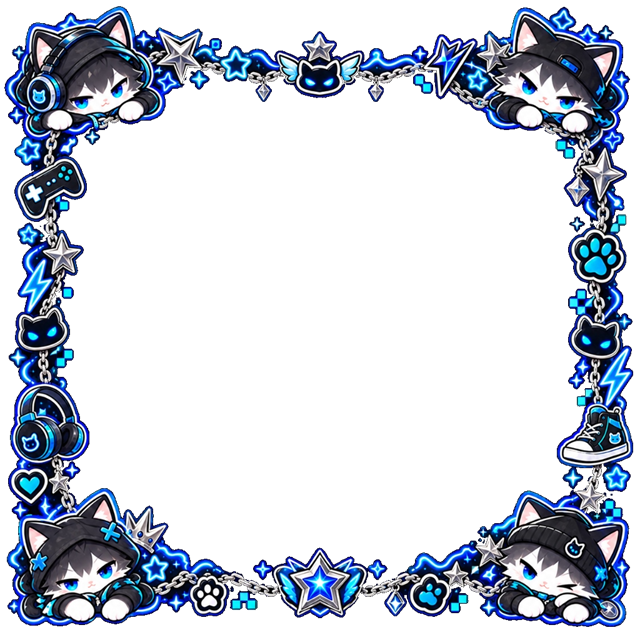
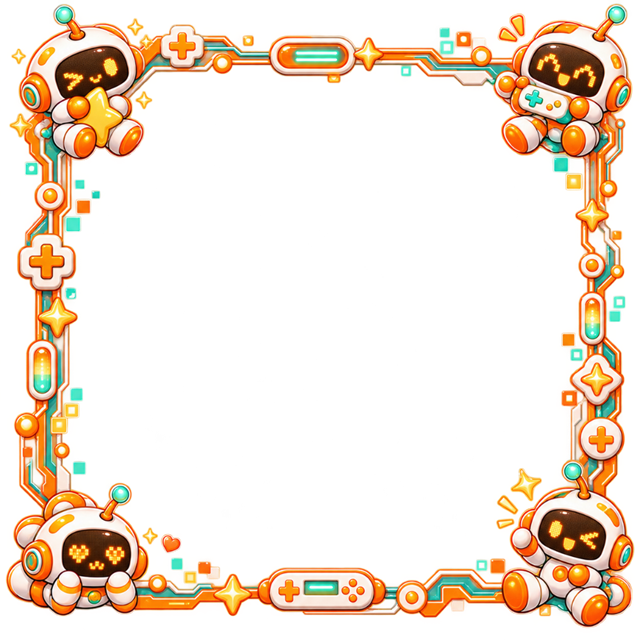
Add Sunday gamer robot frame (640x640) and update Locket_Unlocked.js daily rotation

diff --git a/js/Locket_Unlocked.js b/js/Locket_Unlocked.js
@@ -282,7 +282,7 @@ if (true) {
     // Thứ 5: Em bé gấu nơ
     // Thứ 6: Phi hành gia hoàng gia vàng xanh
     // Thứ 7: Mèo cyber neon xanh
-    // Chủ Nhật: Tạm dùng Mèo cyber (chờ khung mới)
+    // Chủ Nhật: Robot phi hành gia cam gamer
     // ============================================================
     var dailyFrames = {
         1: { name: "mon", uid: "frame_mon_galaxy_cat", url: "https://i.ibb.co/84j69JnV/frame-mon-640.png" },
@@ -291,7 +291,7 @@ if (true) {
         4: { name: "thu", uid: "frame_thu_baby_bear", url: "https://i.ibb.co/DDnjrxYB/frame-thu-640.png" },
         5: { name: "fri", uid: "frame_fri_astro_boy", url: "https://i.ibb.co/VYmyDN1g/frame-fri-640.png" },
         6: { name: "sat", uid: "frame_sat_cyber_cat", url: "https://i.ibb.co/wFdwxy9w/frame-sat-640.png" },
-        0: { name: "sun", uid: "frame_sun_cyber_cat", url: "https://i.ibb.co/wFdwxy9w/frame-sat-640.png" }
+        0: { name: "sun", uid: "frame_sun_robot_gamer", url: "https://i.ibb.co/d4vFGDw2/frame-sun-640.png" }
     };
 
     var nowDate = new Date();
